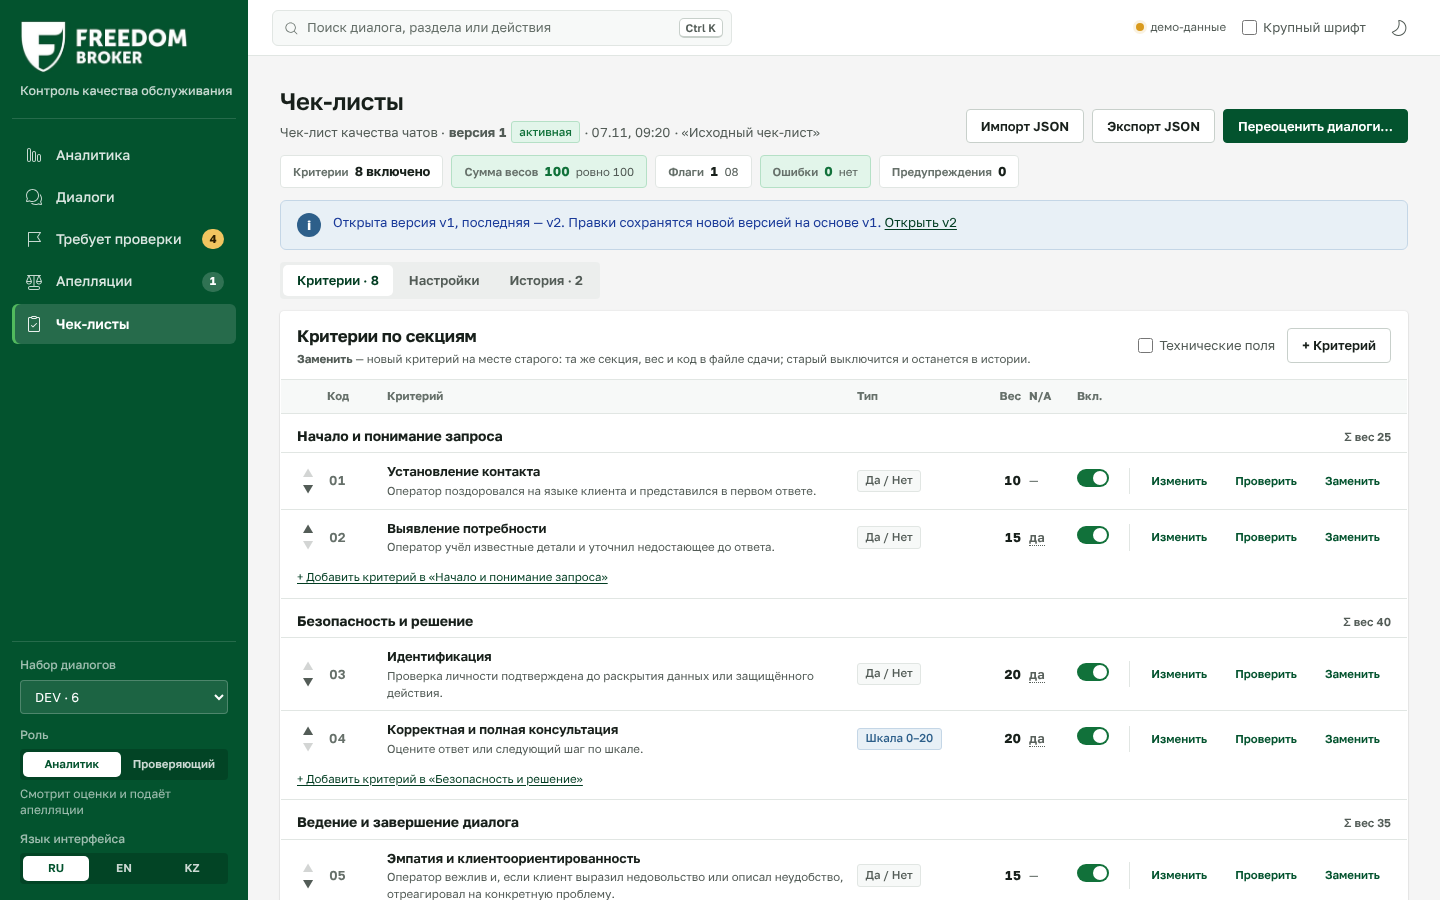
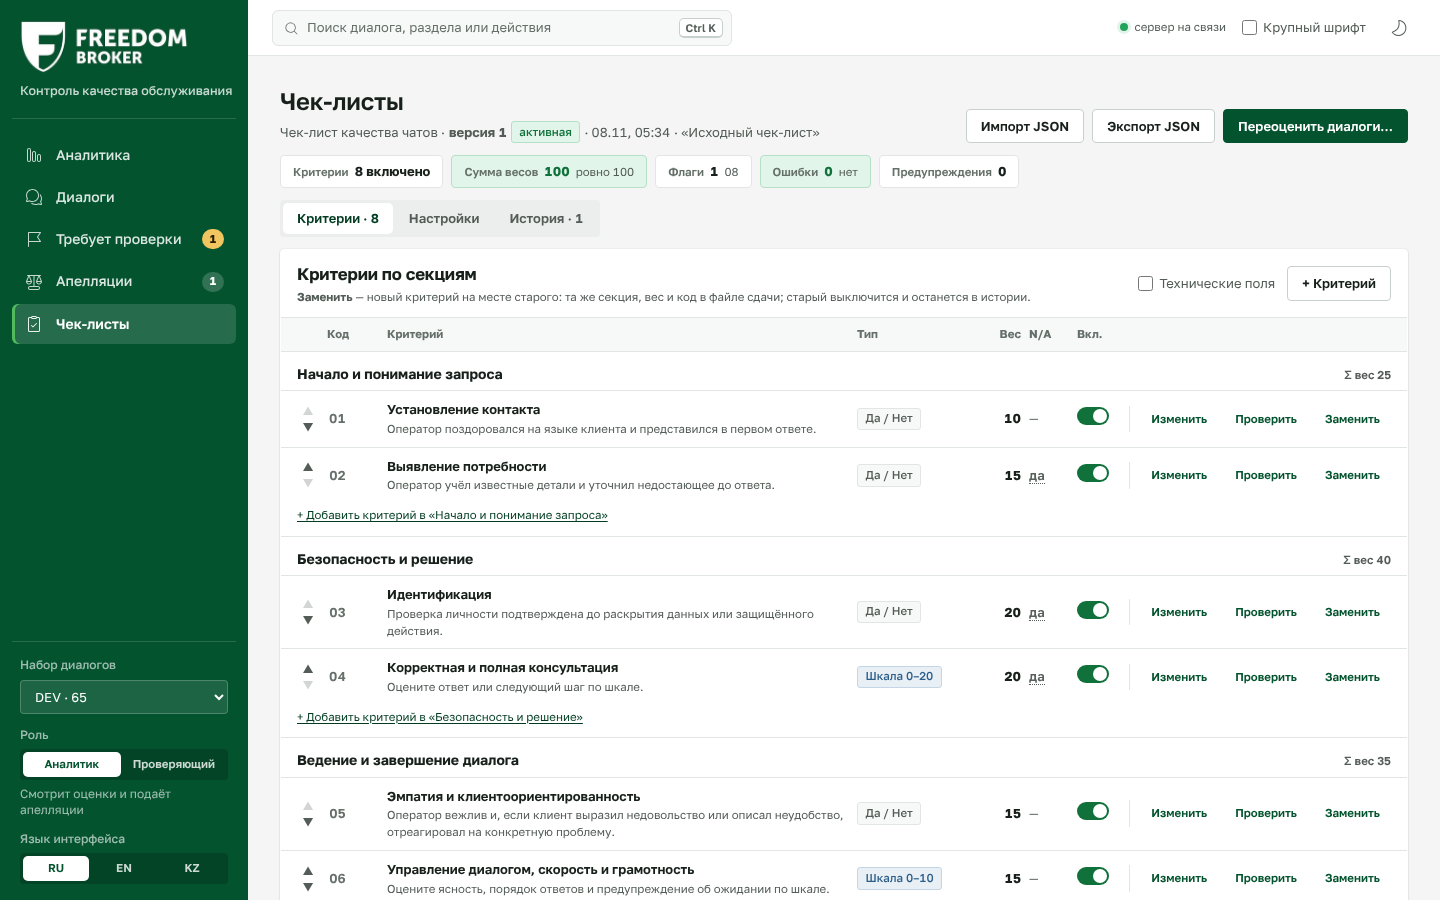
docs(readme): scenario screenshots on real DEV dialogs

diff --git a/README.md b/README.md
@@ -23,7 +23,7 @@
 
 ## Сценарии использования
 
-Скриншоты сделаны в режиме `?mock=1`, данные в них вымышленные.
+Скриншоты сделаны на реальных диалогах DEV с оценками из `results/dev/results.json` (основная модель, промпт p3); апелляция на скриншоте подана для примера.
 
 **1. Руководитель смотрит качество группы.** «Аналитика» показывает средний итог AI и после апелляций, грубые ошибки, слабые критерии, очередь проверки и открытые апелляции. Клик по любой цифре открывает список диалогов с этим фильтром.
 
@@ -31,7 +31,7 @@
 
 **2. Аналитик разбирает диалог.** В карточке слева таймлайн и расшифровка, справа итог и баллы по каждому критерию с обоснованием и цитатой. Клик по цитате подсвечивает реплику, у звонка запись перематывается на нужную секунду. «Оспорить оценку» подаёт апелляцию с комментарием.
 
-![Карточка диалога](docs/img/scenarios/card.png)
+![Карточка диалога p1-ru-009: данные счёта раскрыты до идентификации — 03 «Нет» и флаг грубой ошибки](docs/img/scenarios/card.png)
 
 **3. Проверяющий решает апелляцию.** В режиме «Проверяющий» видны спорный ответ AI, обоснование, комментарий аналитика и фрагмент диалога. Проверяющий подтверждает или меняет ответ с причиной, итог пересчитывается, а исходная оценка AI сохраняется. «Второе мнение ИИ» вслепую переоценивает спорный критерий.
 
@@ -42,8 +42,6 @@
 ![Конструктор чек-листа](docs/img/scenarios/checklist.png)
 
 **5. Проверка неуверенных оценок.** «Требует проверки» собирает критерии с низкой уверенностью модели, ошибкой проверки цитаты или противоречием фактам. Проверяющий начинает с них и не перечитывает все диалоги.
-
-![Требует проверки](docs/img/scenarios/review.png)
 
 **6. Контроль и сдача.** Новый набор загружается по `group_id` («Импорт набора» или `scripts/control.py`), затем «Оценить группу» и «Экспорт ▾» → «Файл сдачи (results.json)» с проверкой формата. Подробнее — в разделе [Контрольный прогон](#контрольный-прогон).
 
